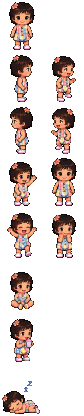
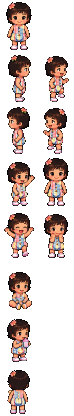
Swap the girls' nap for looking at the clock and window

diff --git a/widgets/walker.js b/widgets/walker.js
@@ -29,7 +29,7 @@ const WALKER_STATES = {
   atDesk:   { anim: "drinkStand", wait: 40, next: "toCoffee" },     // sip sip
 };
 
-// The kid: wander → wave → sit with a drink → cheer → nap.
+// The kid: wander → wave → sit with a drink → cheer → look up at the clock.
 const KID_STATES = {
   toMiddle: { anim: "walkRight", target: "middle", hold: 2, next: "waving" },
   waving:   { anim: "wave", wait: 24, hold: 4, next: "toPlant" },
@@ -37,23 +37,23 @@ const KID_STATES = {
   sitting:  { anim: "sit", wait: 24, next: "drinking" },
   drinking: { anim: "drink", wait: 32, next: "toRug" },
   toRug:    { anim: "walkLeft", target: "rug", hold: 2, next: "cheering" },
-  cheering: { anim: "cheer", wait: 24, hold: 4, next: "napping" },
-  napping:  { anim: "nap", wait: 60, next: "toMiddle" },                 // zzz
+  cheering: { anim: "cheer", wait: 24, hold: 4, next: "clock" },
+  clock:    { anim: "back", wait: 40, next: "toMiddle" },                // what time is it?
 };
 
 // The girls' spots: the CENTER of each spot, as a fraction of canvas width.
 const KID_SPOTS = { rug: 0.4, middle: 0.55, plant: 0.72 };
 
-// The baby: toddle over → sit → bottle → cheer → toddle back → wave at the
-// window → long nap.
+// The baby: toddle over → sit → bottle → cheer → toddle back → wave, then
+// look out the window.
 const BABY_STATES = {
   toToys:   { anim: "walkRight", target: "toys", hold: 3, next: "playing" },
   playing:  { anim: "sit", wait: 40, next: "bottle" },
   bottle:   { anim: "drink", wait: 30, next: "cheering" },
   cheering: { anim: "cheer", wait: 20, hold: 4, next: "toWindow" },
   toWindow: { anim: "walkLeft", target: "window", hold: 3, next: "waving" },
-  waving:   { anim: "wave", wait: 24, hold: 5, next: "napping" },
-  napping:  { anim: "nap", wait: 80, next: "toToys" },                   // zzz
+  waving:   { anim: "wave", wait: 24, hold: 5, next: "window" },
+  window:   { anim: "back", wait: 60, next: "toToys" },                  // birds?
 };
 const BABY_SPOTS = { window: 0.28, toys: 0.46 };
 

diff --git a/tools/slice_chibi.py b/tools/slice_chibi.py
@@ -29,9 +29,8 @@ ANIMATIONS = {
     "cheer": [(2, 0), (2, 1)],
     "sit": [(2, 2)],
     "drink": [(2, 3)],
-    "nap": [(2, 7)],
+    "back": [(2, 6)],
 }
-CENTER_ON_BOX = {"nap"}  # lying down: no head on top to center on
 
 # Per character: scale (source poses are ~240px tall) and whether walkLeft
 # is mirrored from walkRight — the baby's col-4 walking pose faces right.
@@ -94,10 +93,7 @@ def pose(r, c):
     return a
 
 
-def center_x(a, name):
-    xs = np.nonzero(a[..., 3].any(0))[0]
-    if name in CENTER_ON_BOX:
-        return (xs.min() + xs.max() + 1) / 2
+def center_x(a):
     top = a[: int(a.shape[0] * 0.35), :, 3]  # head, so swinging limbs don't jitter
     return np.nonzero(top)[1].mean()
 
@@ -105,8 +101,8 @@ def center_x(a, name):
 frames = {anim: [pose(r, c) for r, c in cells_] for anim, cells_ in ANIMATIONS.items()}
 if CHARACTERS[name]["mirror_walk"]:
     frames["walkLeft"] = [a[:, ::-1].copy() for a in frames["walkRight"]]
-half_w = max(max(cx, a.shape[1] - cx) for anim, fs in frames.items() for a in fs
-             for cx in [center_x(a, anim)])
+half_w = max(max(cx, a.shape[1] - cx) for fs in frames.values() for a in fs
+             for cx in [center_x(a)])
 frame_w = int(np.ceil(half_w * 2)) + PAD * 2
 frame_h = max(a.shape[0] for fs in frames.values() for a in fs) + PAD * 2
 cols = max(len(fs) for fs in frames.values())
@@ -116,7 +112,7 @@ sheet = Image.new("RGBA", (cols * frame_w, len(frames) * frame_h), (0, 0, 0, 0))
 meta = {"frameWidth": frame_w, "frameHeight": frame_h, "animations": {}}
 for r, (anim, fs) in enumerate(frames.items()):
     for c, a in enumerate(fs):
-        x = c * frame_w + round(frame_w / 2 - center_x(a, anim))
+        x = c * frame_w + round(frame_w / 2 - center_x(a))
         y = (r + 1) * frame_h - PAD - a.shape[0]
         sheet.alpha_composite(Image.fromarray(a), (x, y))
     meta["animations"][anim] = {"row": r, "frames": len(fs)}
